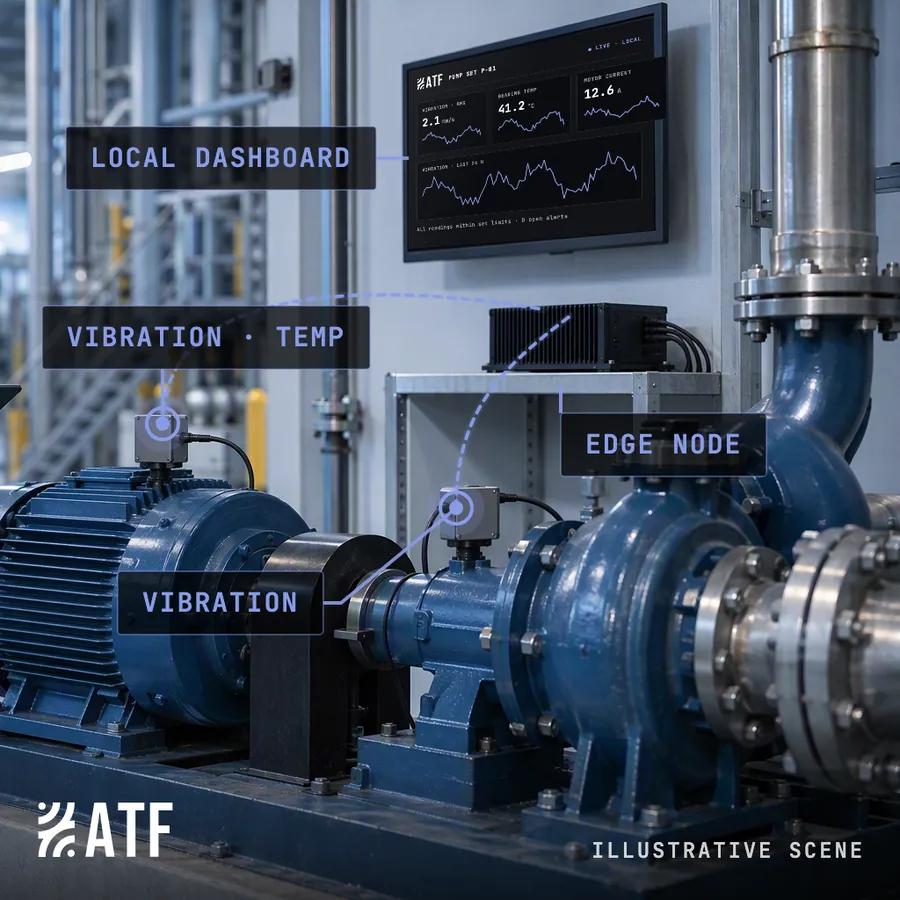
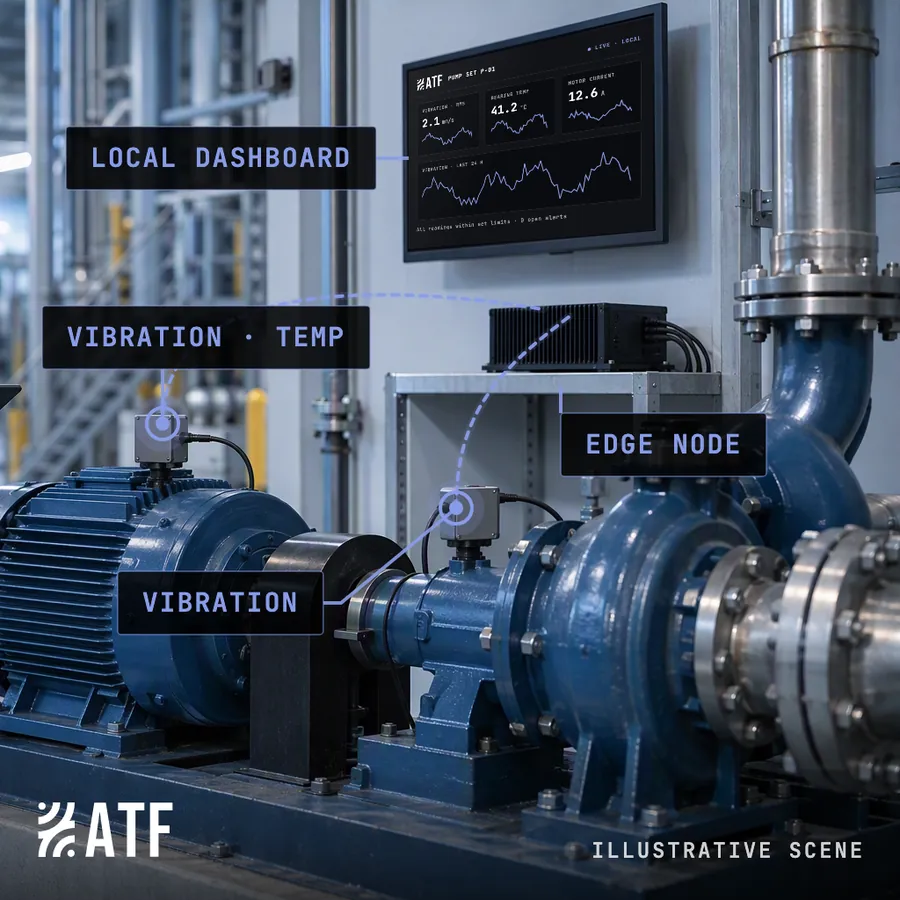
Make photo callouts legible and fit the hero dashboard to its screen
- Hero: dashboard tiles no longer overrun the monitor bezel
- Plant room: larger callouts on darker backgrounds, repositioned
- Sensor close-up: single square crop with large labels at every width

diff --git a/index.html b/index.html
@@ -159,10 +159,7 @@
         <h2 id="edge-h">Data stays under your control. Insight happens where the work does.</h2>
         <p class="lede more">Processing, storage and analysis run on site by default. What leaves the site, if anything, is your decision.</p>
         <figure class="photo photo-dark">
-          <picture>
-            <source media="(max-width:600px)" srcset="assets/img/photo-sensor-mobile.webp" width="900" height="900">
-            <img src="assets/img/photo-sensor.webp" width="1536" height="1024" loading="lazy" alt="Illustrative scene: close-up of an accelerometer on a motor bearing housing, with a callout showing a high-rate vibration signal being reduced to compact features at the source.">
-          </picture>
+          <img src="assets/img/photo-sensor.webp" width="900" height="900" loading="lazy" alt="Illustrative scene: close-up of an accelerometer on a motor bearing housing, with a callout showing a high-rate vibration signal being processed at the source.">
           <figcaption>ILLUSTRATIVE SCENE · PROCESSING AT THE SENSOR</figcaption>
         </figure>
       </div>

diff --git a/assets/site.css b/assets/site.css
@@ -250,7 +250,8 @@ figcaption{font:500 .75rem var(--f-mono);letter-spacing:.06em;color:var(--text-g
 .photo{margin:0 0 var(--s5)}
 .photo img{width:100%;height:auto;aspect-ratio:1536/1024;border-radius:var(--radius);display:block}
 .photo figcaption{margin-top:var(--s2)}
-.photo-dark{margin:var(--s5) 0 0}
+.photo-dark{margin:var(--s5) 0 0;max-width:520px}
+.photo-dark img{aspect-ratio:1/1} /* square crop at every width: it sits in a narrow column */
 .photo-dark figcaption{color:var(--industrial-gray)}
 @media (max-width:600px){.photo img{aspect-ratio:1/1}} /* square crops with larger callouts on phones */
 .iso{margin:0 0 var(--s5);background:var(--tech-black);border-radius:var(--radius);padding:clamp(8px,2vw,24px)}
